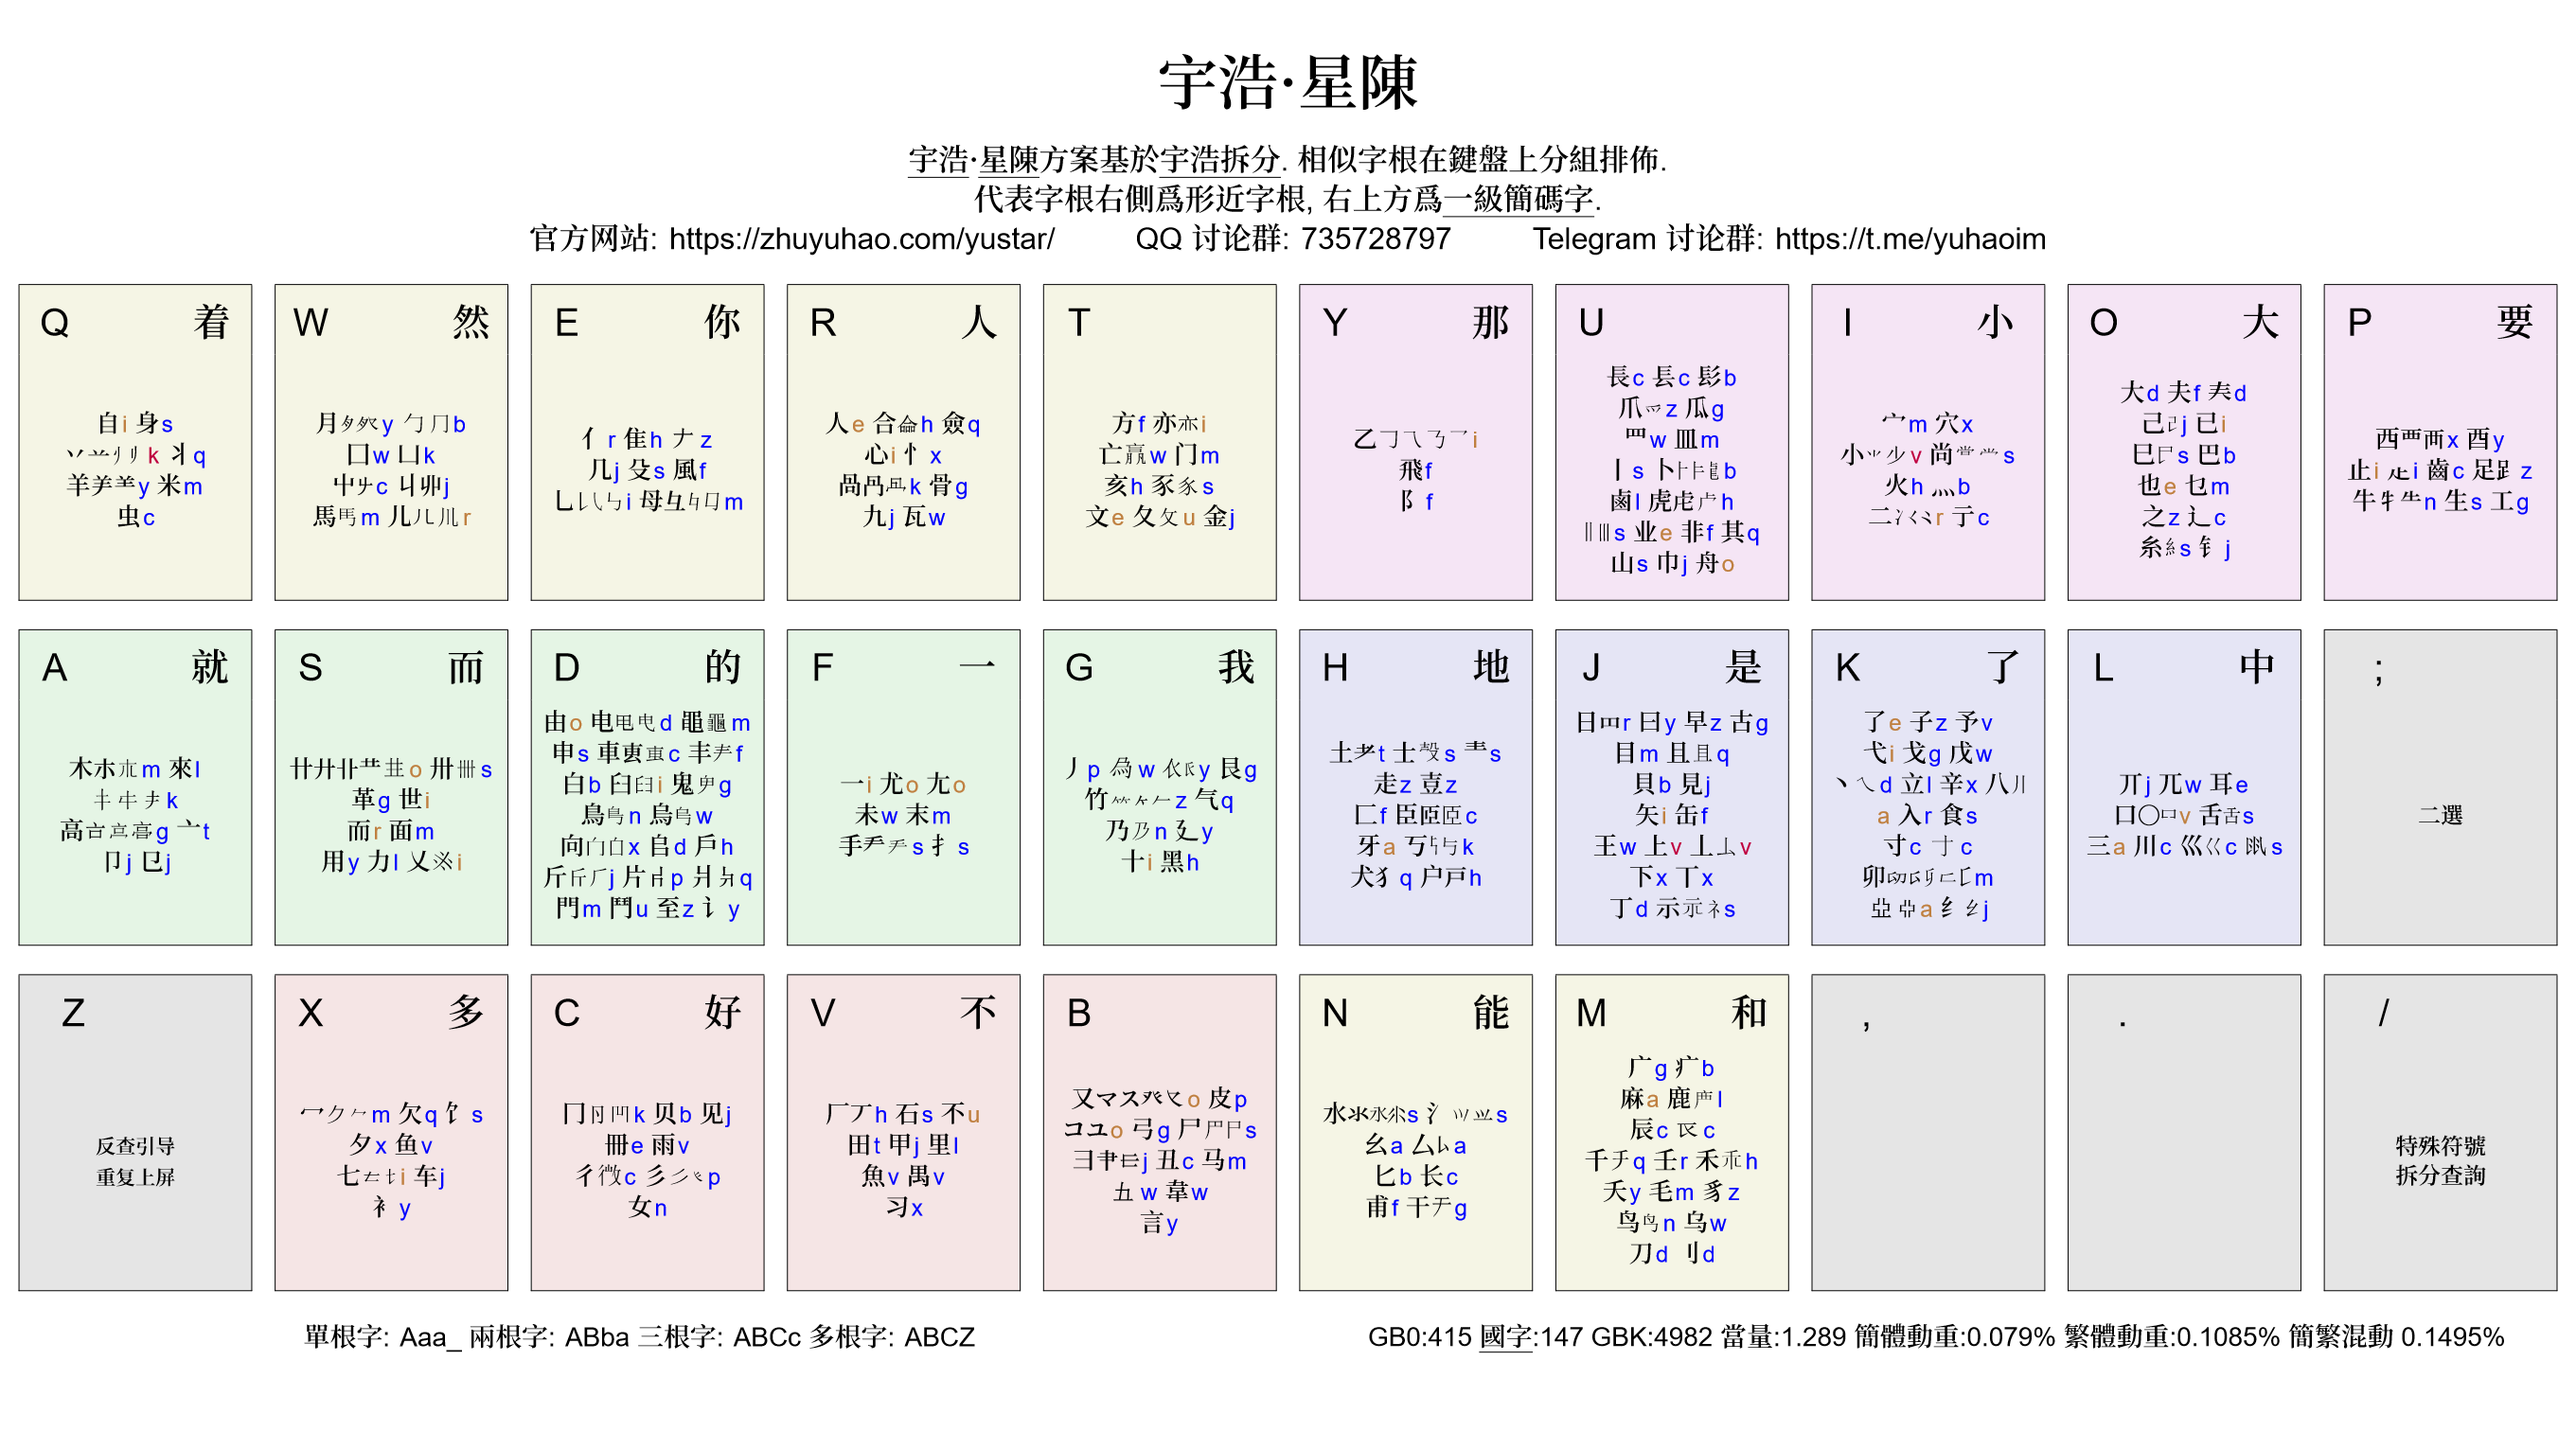
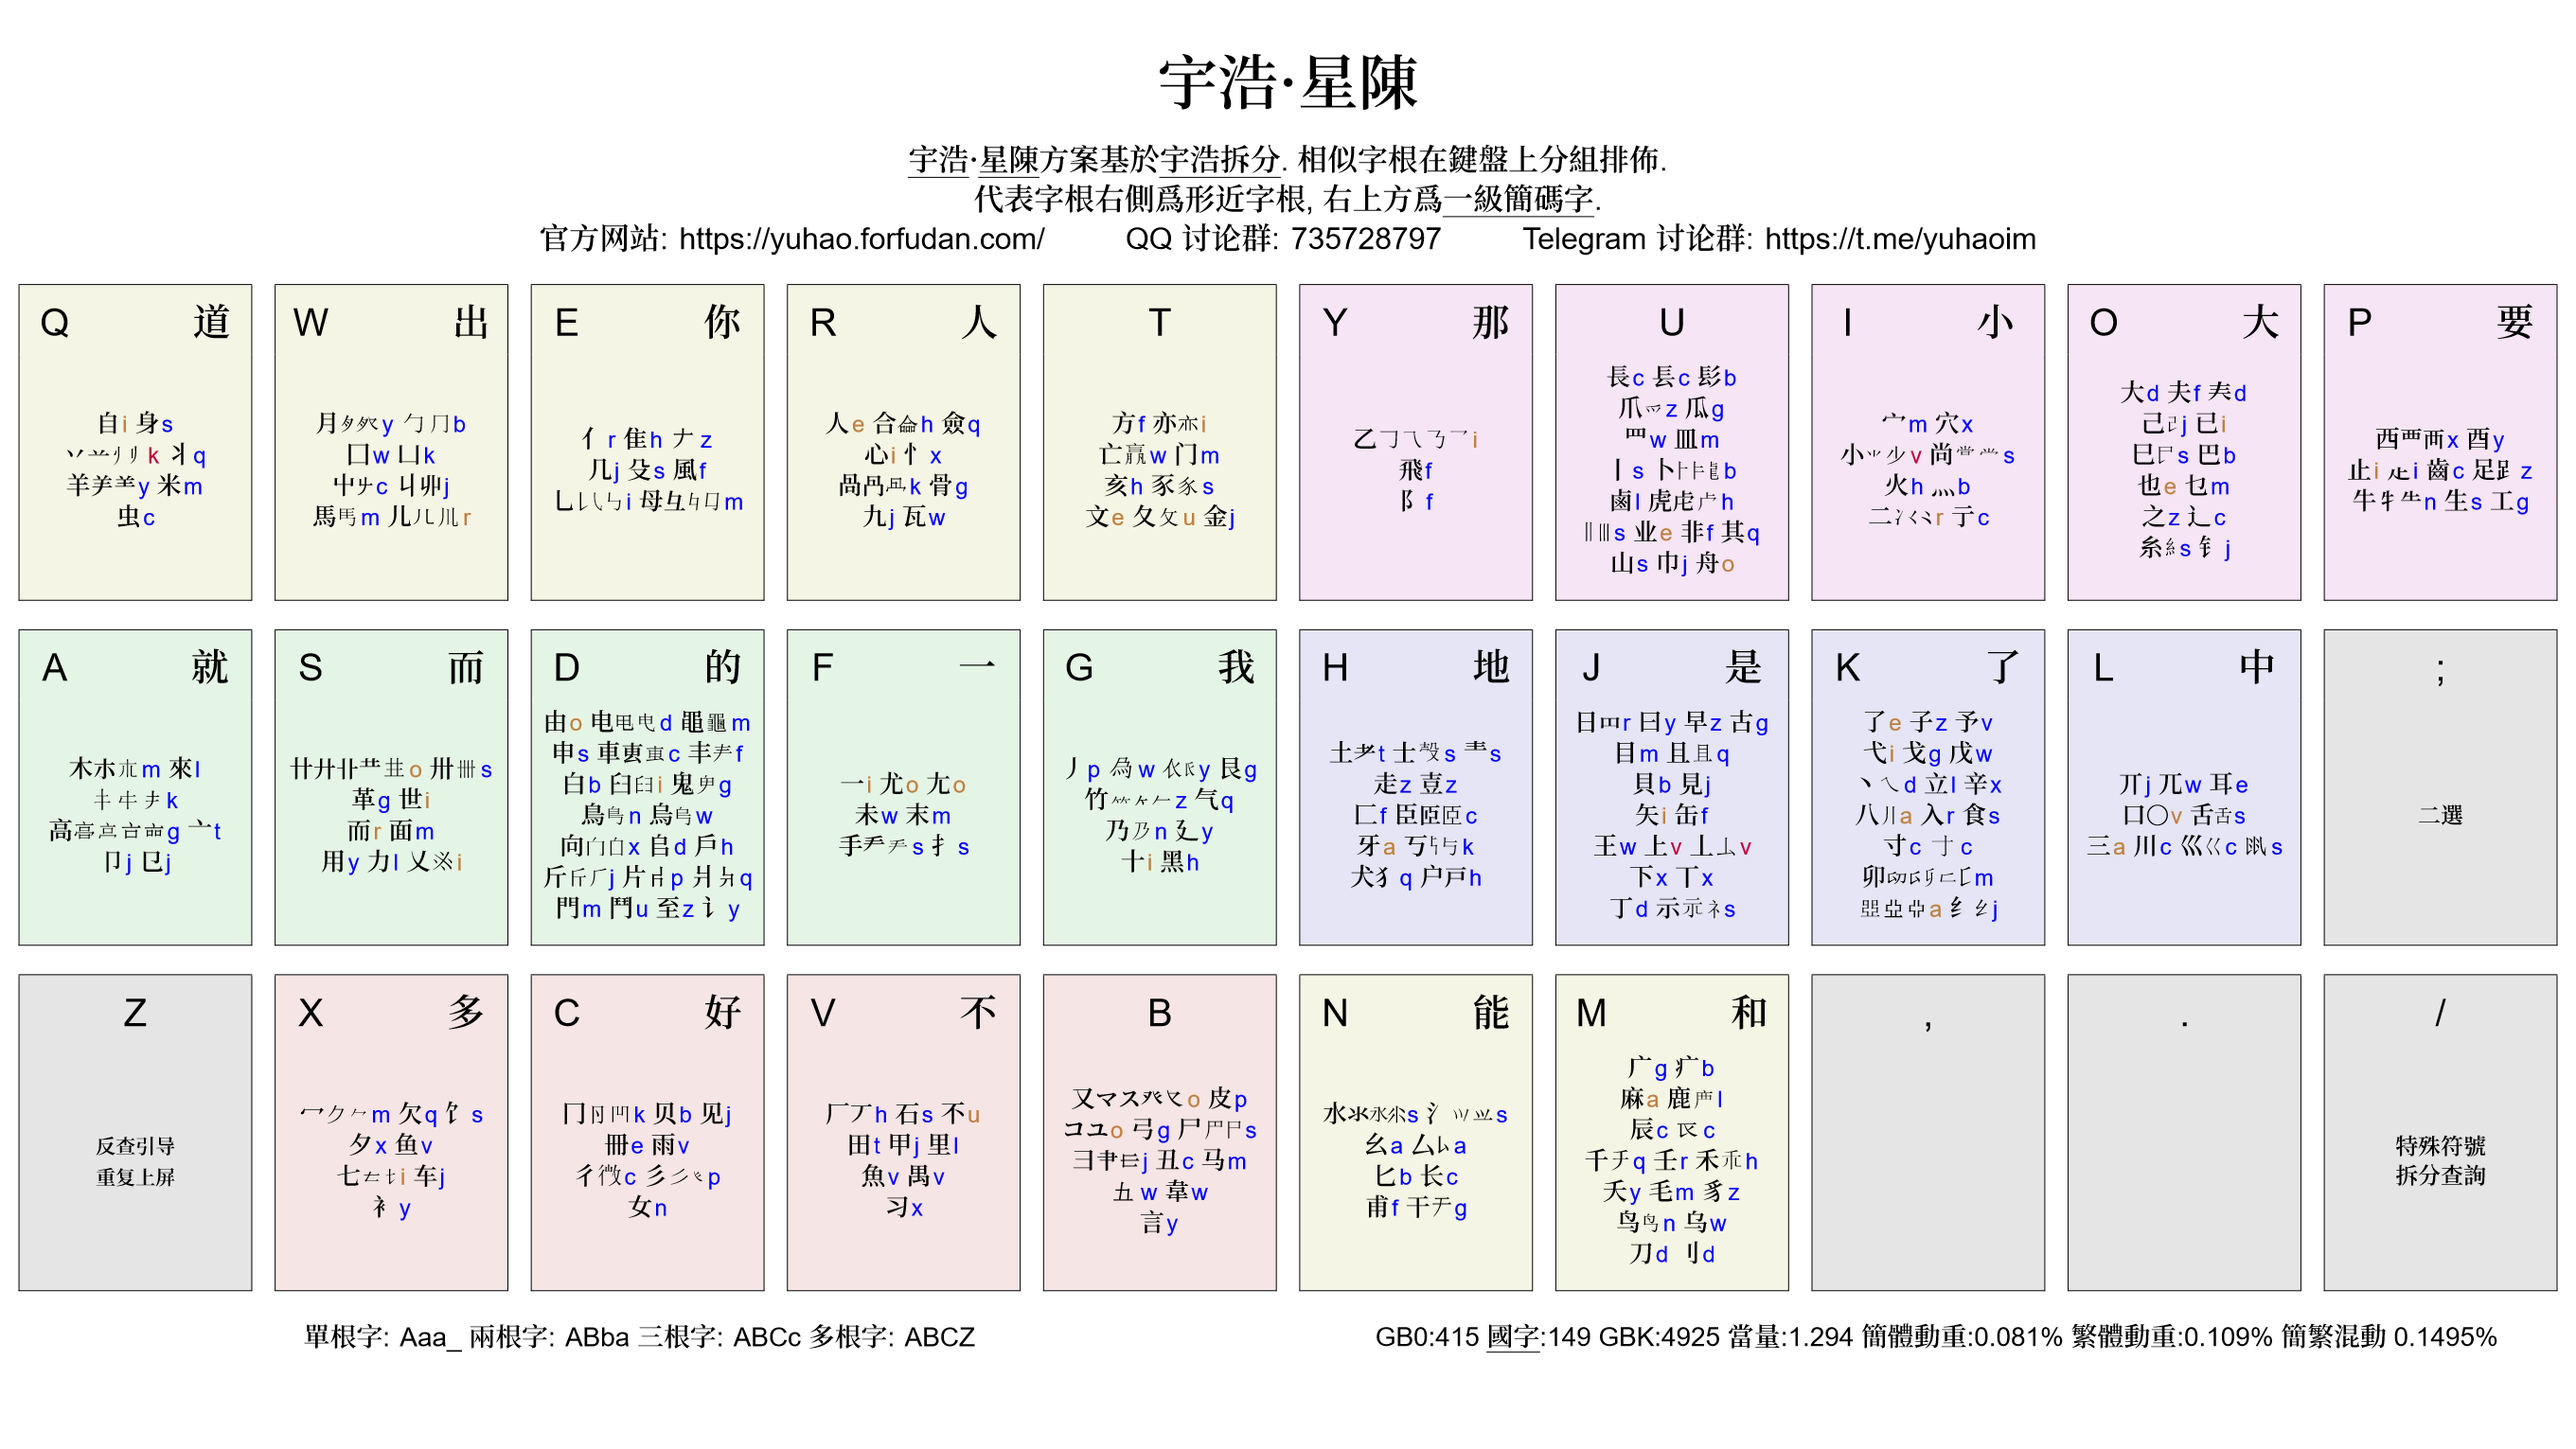
Update

diff --git a/src/docs/updates.md b/src/docs/updates.md
@@ -9,9 +9,15 @@
 
 升級維護，版本号 v3.4.5。
 
-「𠁁」字根認定爲「亞下」的等位字根。至 GBK 改變 2 个: 斲鬭。大字集不列。
+字根變化：
 
-修復星陳 schema 文件一處錯誤。
+- `𠁁`字根認定爲`亞下`的等位字根。至 GBK 改變 2 个: 斲鬭。大字集不列。
+- 删除下有缺口的``字根，因爲極不常見。
+
+Rime 方案變化：
+
+- 更新全碼後置lua，現可自定義需要後置的字，默認後置前的3000重碼字如右：束录嫌存猪炸暑睹睛只另乘津糊袍饱書諸后掏眨壓緒
+- 修復星陳 schema 文件一處錯誤。
 
 ### 2024 年 3 月 30 日
 

diff --git a/src/learn/star.md b/src/learn/star.md
@@ -1,7 +1,5 @@
 # 字根速记
 
-![yustar](/yustar.png)
-
 ## 大码规律
 
 星陳方案中，拥有相似字形的字根会抱团出现，如郑码、徐码等。
@@ -58,3 +56,7 @@
 | u    | <不夂鬥>      |                  |
 | r ㄦ | <二儿而>      |                  |
 | v    | <上小口>      | 让出声母给低频根 |
+
+## 字根图
+
+![yustar](/yustar.png)

diff --git a/src/learn/advanced.md b/src/learn/advanced.md
@@ -333,7 +333,7 @@ import Chaifen from '@/chaifen/Chaifen.vue'
 <div class="flex justify-left flex-wrap">
 <Chaifen char='禹' :parts='[1,3,2,3]' :colors='[1,2,3,4]' />
 ✅
-<Chaifen char='禹' :parts='[1,3,2,3]' :colors='[1,2,0,2]' />
+<Chaifen char='禹' :parts='[1,3,2,3]' :colors='[0,1,0,1]' />
 ❌
 </div>
 
